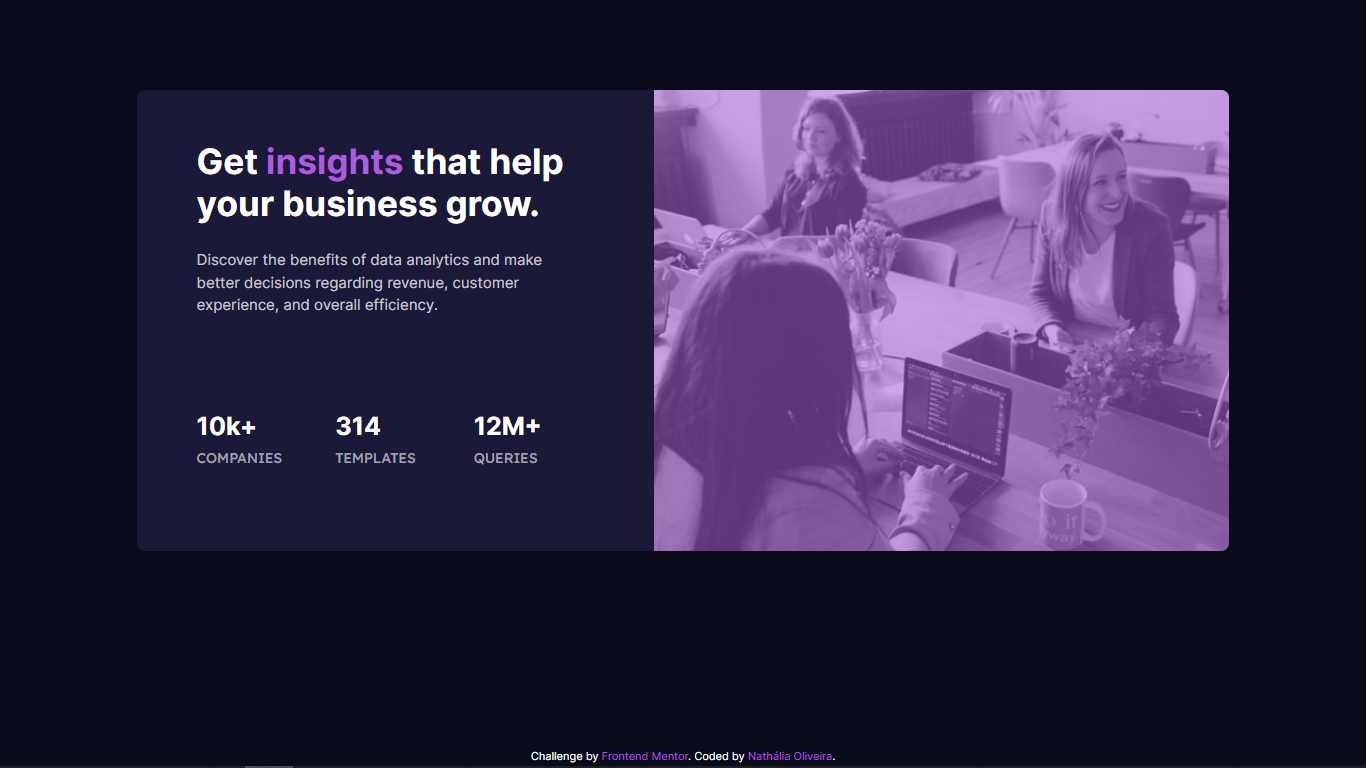
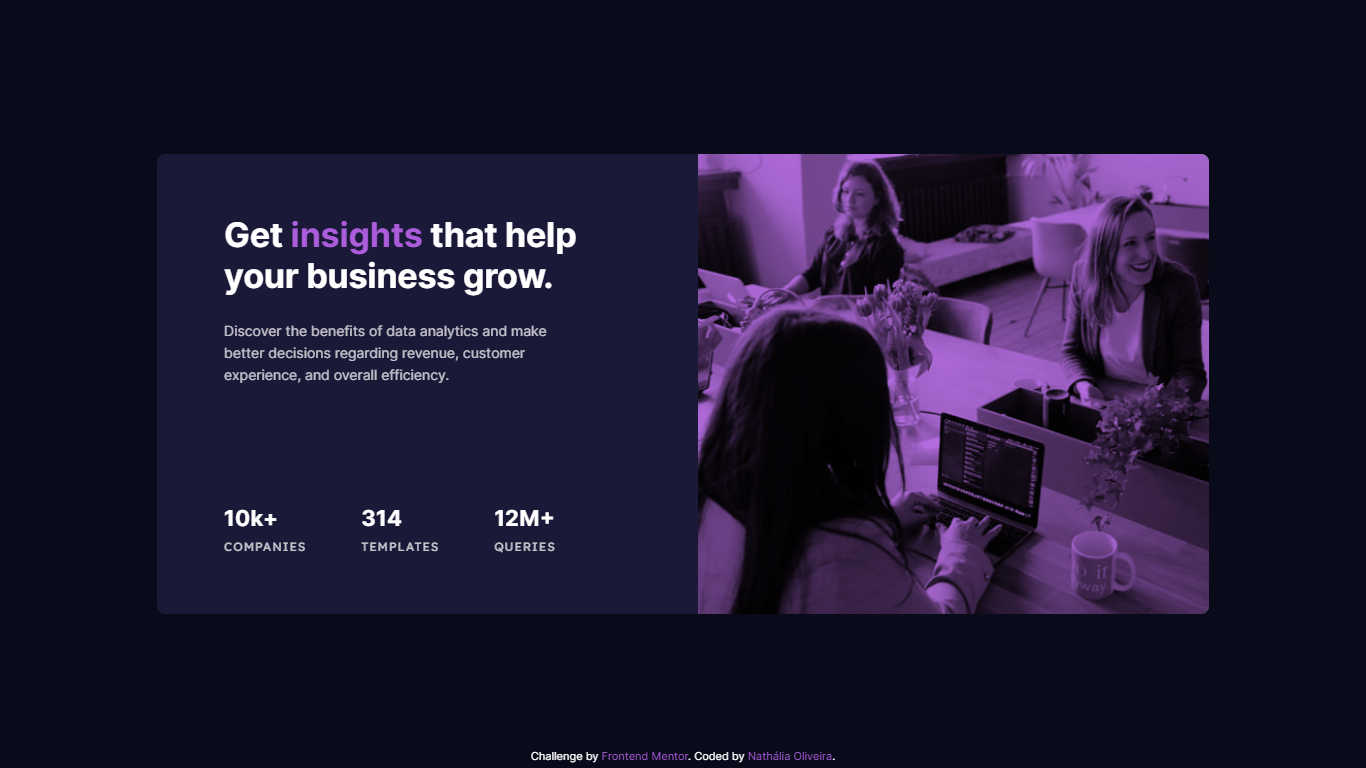
fixing errors and add semantic tags

diff --git a/src/css/style.css b/src/css/style.css
@@ -7,22 +7,15 @@ font-family: 'Lexend Deca', sans-serif;
 font-weight: 400;   INTER, LEXEND
 font-weight: 700;   INTER
 font-size: 15px;    BODY
-*/
 
-:root {
-    --bg-dark-blue: hsl(233, 47%, 7%);
-    /* MAIN BACKGROUND */
-    --card-bg-dark-blue: hsl(244, 38%, 16%);
-    /* CARD BACKGROUND */
-    --soft-violet: hsl(277, 64%, 61%);
-    /* ACCENT */
-    --heading-white: hsl(0, 0%, 100%);
-    /* MAIN HEADING, STATS */
-    --paragraph-white: hsla(0, 0%, 100%, 0.75);
-    /* MAIN PARAGRAPH */
-    --stat-heading-white: hsla(0, 0%, 100%, 0.6);
-    /* STAT HEADINGS */
-}
+>>>> COLORS
+hsl(233, 47%, 7%);          MAIN BACKGROUND
+hsl(244, 38%, 16%);         CARD BACKGROUND
+hsl(277, 64%, 61%);         ACCENT
+hsl(0, 0%, 100%);           MAIN HEADING, STATS
+hsla(0, 0%, 100%, 0.75);    MAIN PARAGRAPH
+hsla(0, 0%, 100%, 0.6);     STAT HEADINGS
+*/
 
 * {
     margin: 0;
@@ -32,98 +25,102 @@ font-size: 15px;    BODY
 }
 
 body {
-    background-color: var(--bg-dark-blue);
-    color: var(--paragraph-white);
+    background-color: hsl(233, 47%, 7%);
+    color: hsla(0, 0%, 100%, 0.75);
     font-family: 'Inter', sans-serif;
     font-size: 15px;
     font-weight: 400;
     padding: 90px 20px;
+    width: 100%;
+    height: 100vh;
 
     display: flex;
     flex-direction: column;
     align-items: center;
-    justify-content: space-between;
+    justify-content: center;
     position: relative;
 }
 
 .card {
-    background-color: var(--card-bg-dark-blue);
-    width: 88vw;
-    height: max-content;
+    background-color: hsl(244, 38%, 16%);
+    width: 77vw;
+    height: 60vh;
     border-radius: 8px;
     overflow: hidden;
     display: flex;
-    flex-direction: column;
+    flex-direction: row-reverse;
 }
 
 .box-img {
-    background-image: url('../images/image-header-mobile.jpg');
-    width: 100%;
-    height: 36vh;
-    background-size: contain;
+    background-image: url('../images/image-header-desktop.jpg');
+    width: 38vw;
+    background-size: cover;
 }
 
 .filter {
-    background: rgba(170, 92, 219, 0.548);
-    /* border-radius: 10px; */
+    background: hsl(277, 64%, 61%);
     width: 100%;
     height: 100%;
+    mix-blend-mode: multiply;
+    opacity: 0.9;
 }
 
 .box-content {
-    padding: 40px 30px 20px;
-    text-align: center;
-    display: grid;
-    grid-template-rows: 1fr 1fr;
-    gap: 20px;
+    width: 40vw;
+    padding: 60px 100px 60px 67px;
+    
+    display: flex;
+    flex-direction: column;
+    justify-content: space-between;
 }
 
 .info {
-    text-align: center;
+    margin-right: 8px;
 }
 
-.info .title {
-    color: var(--heading-white);
-    font-size: 28px;
+.title {
+    color: hsl(0, 0%, 100%);
     font-weight: 700;
-    margin-bottom: 20px;
+    font-size: 2.1rem;
+    margin-bottom: 24px;
 }
 
-.info .title span {
-    color: var(--soft-violet)
+.title span {
+    color: hsl(277, 64%, 61%);
 }
 
-.info .description {
-    line-height: 1.8;
+.description {
+    font-size: 14px;
+    line-height: 1.6;
 }
 
 .stats {
-    display: grid;
-    grid-template-rows: 1fr 1fr 1fr;
-    align-items: center;
+    display: flex;
+    justify-content: space-between;
+    font-size: 0.8rem;
+    margin-right: 42px;
 }
 
 .stat-info .number {
-    color: var(--heading-white);
-    font-size: 25px;
+    font-size: 1.4rem;
     font-weight: 700;
+    color: hsl(0, 0%, 100%);
     margin-bottom: 8px;
-}
-
-.stat-info .upper {
-    text-transform: uppercase;
-
 }
 
 .stat-info .type {
     font-family: 'Lexend Deca', sans-serif;
-    color: var(--stat-heading-white);
-    font-size: 14px;
+    font-size: 12px;
+    letter-spacing: 1px;
+}
+
+.stat-info .type,
+.stat-info .upper {
     text-transform: uppercase;
 }
 
 .attribution {
-    color: var(--heading-white);
+    color: hsl(0, 0%, 100%); ;
     font-size: 11px;
     text-align: center;
 
@@ -133,114 +130,69 @@ body {
 
 .attribution a {
     text-decoration: none;
-    color: var(--soft-violet);
+    color: hsl(277, 64%, 61%);;
 }
 
+@media only screen and (max-width: 500px) {
 
-@media only screen and (min-width: 480px) {
-    .card {
-        height: 80vh;
-    }
-
-    .box-img {
-        /* height: 45vh; */
-        background-size: cover;
-    }
-
-    .stats {
-        grid-template-rows: 100px;
-        grid-template-columns: 100px 100px 100px;
-        justify-content: space-evenly;
-        align-content: center;
-    }
-
-}
-
-@media only screen and (min-width: 768px) {
-
-    /* TABLET SIZE */
-    .box-content {
-        padding: 50px 40px 30px;
-        gap: 40px;
-        align-content: space-evenly;
-    }
-
-    .info .title {
-        margin-bottom: 40px;
-    }
-}
-
-@media only screen and (min-width: 1024px) {
-
-    /* SMALL DESKTOP */
     body {
-        height: 100vh;
+        height: max-content;
+        /* padding: 0; */
     }
 
     .card {
-        width: 80vw;
-        flex-flow: row-reverse;
-        height: 60vh;
+        flex-direction: column;
+        width: 90vw;
+        height: auto;
+        overflow: scroll;
     }
-
+    
     .box-img {
-        background-image: url('../images/image-header-desktop.jpg');
-        height: 100%;
-        width: 100vw;
-        background-size: cover;
+        background-image: url('../images/image-header-mobile.jpg');
+        width: 100%;
+        height: 40vh;
     }
-
+    
     .box-content {
-        padding: 50px 30px 30px;
-        text-align: left;
-        gap: 40px;
+        padding: 40px 20px 30px;
+        width: 100%;
+        height: max-content;
     }
-
+    
     .info {
-        text-align: left;
-    }
-
-    .info .title {
-        margin-bottom: 25px;
-    }
-
-    .info .description {
-        line-height: 1.5;
-    }
-
-    .attribution {
-        color: var(--heading-white);
-        font-size: 11px;
         text-align: center;
-
-        position: absolute;
-        bottom: 5px;
     }
-}
-
-@media only screen and (min-width: 1280px) {
-
-    /* FULL SCREEN */
-    .box-img {
-        width: 100vw;
+    
+    .title {
+        font-size: 1.8rem;
     }
-
-    .box-content {
-        padding: 50px 60px 30px;
-
-    }
-
-    .info .title {
-        font-size: 35px;
-        margin-right: 20px;
-    }
-
-    .info .description {
-        margin-right: 25px;
+    
+    .description {
+        font-size: 1rem;
     }
 
     .stats {
-        margin-right: 20px;
-        justify-content: space-between;
+        flex-direction: column;
+        align-items: center;
+        margin: 0;
+        padding-top: 50px;
+        gap: 35px;
+
+        /* border: 1px solid red; */
     }
+    
+    .stat-info {
+        text-align: center;
+        
+        /* border: 2px solid greenyellow; */
+    }
+    
+    /* .stats {
+        justify-content: space-between;
+        gap: 55px;
+        font-size: 0.8rem;
+        margin-top: 50px;
+        display: none;
+    } */
+
 }

diff --git a/index.html b/index.html
@@ -8,14 +8,14 @@
     <link rel="stylesheet" href="./src/css/style.css">
 </head>
 <body>
-    <div class="card">
-        <div class="box-img">
+    <main class="card">
+        <section class="box-img">
             <div class="filter"></div>
-        </div>
+        </section>
 
-        <div class="box-content">
+        <section class="box-content">
             <div class="info">
-                <p class="title">Get <span>insights</span> that help your business grow.</p>
+                <h1 class="title">Get <span>insights</span> that help your business grow.</h1>
                 <p class="description">
                     Discover the benefits of data analytics and make better decisions regarding revenue, customer experience, and overall efficiency.
                 </p>
@@ -34,13 +34,13 @@
                     <p class="number upper">12m+</p>
                     <p class="type">queries</p>
                 </div>
-            </div>
-        </div>
-    </div>
+            </div>    
+        </section>
+    </main>
 
-    <div class="attribution">
+    <footer class="attribution">
         Challenge by <a href="https://www.frontendmentor.io?ref=challenge" target="_blank">Frontend Mentor</a>. 
         Coded by <a href="https://github.com/nathsantoliver">Nathália Oliveira</a>.
-      </div>
+    </footer>
 </body>
 </html>
